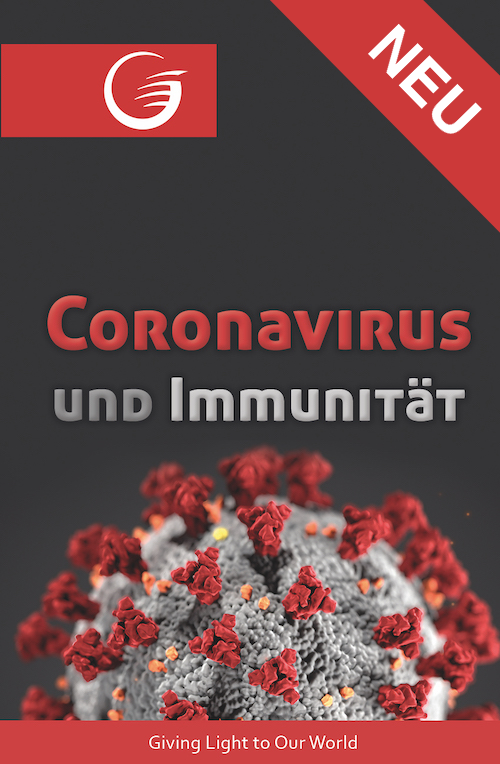
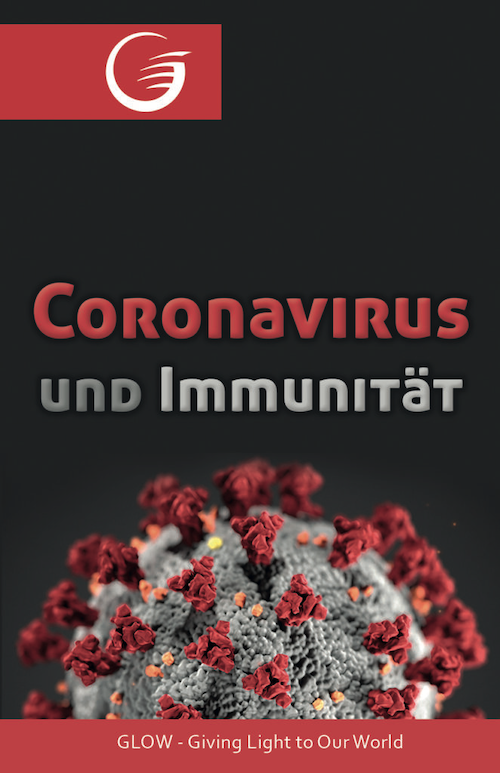
final changes for release

diff --git a/lib/pages/FlyerDetail.dart b/lib/pages/FlyerDetail.dart
@@ -48,7 +48,7 @@ class FlyerDetailPageState extends State<FlyerDetailPage> {
       systemOverlayStyle: SystemUiOverlayStyle.light,
       pinned: true,
       actions: createAppBarActions(),
-      expandedHeight: 160.0 * Utils.DYNAMIC_SCALE,
+      expandedHeight: 250,
       flexibleSpace: FlexibleSpaceBar(
         title: createAppBarTitle(),
         background: createAppBarBackground(),
@@ -101,8 +101,8 @@ class FlyerDetailPageState extends State<FlyerDetailPage> {
         title = flyer.titleShort;
     }
     return Padding(
-        padding: EdgeInsets.only(left : Utils.SPACE1_D),
-        child: Text(title, style: TextStyle(fontSize: Utils.TEXT_LARGE_D))
+        padding: EdgeInsets.only(right : Utils.SPACE3_D),
+        child: Text(title, style: TextStyle(fontSize: Utils.TEXT_MEDIUM_D))
     );
   }
 
@@ -110,7 +110,7 @@ class FlyerDetailPageState extends State<FlyerDetailPage> {
     var cover = flyer.cover;
     return ColorFiltered(
       colorFilter: ColorFilter.mode(
-        Colors.grey.withAlpha(150),
+        Colors.grey.withAlpha(100),
         BlendMode.dstATop,
       ),
       child: Image.asset(cover, fit: BoxFit.fitWidth),
@@ -150,7 +150,7 @@ class FlyerDetailPageState extends State<FlyerDetailPage> {
             child: Html(
               data: html,
               style: {
-                "body": Style(fontSize: FontSize(Utils.TEXT_MEDIUM_D)),
+                "body": Style(fontSize: FontSize(Utils.TEXT_MEDIUM)),
               },
               customImageRenders: getCustomImageRenders(),
               onLinkTap: (url, context, attributes, element) => External.launchURL(this.context, url),

diff --git a/lib/pages/FlyerList.dart b/lib/pages/FlyerList.dart
@@ -119,7 +119,7 @@ class FlyerListPageState extends State<FlyerListPage> {
   Widget createGrid(List<String> favourites) {
     var displayWidth = Utils.getDisplaySizeWidth(context);
     var spacing = Utils.SPACE1_D;
-    var flyerWidth = Utils.SPACE4_D * 2;
+    var flyerWidth = Utils.SPACE4 * 2;
     var horizontalCount = (displayWidth - spacing) ~/ (flyerWidth + spacing);
 
     flyerWidth = (displayWidth - (spacing + spacing * horizontalCount)) / horizontalCount;
@@ -257,7 +257,7 @@ class FlyerListPageState extends State<FlyerListPage> {
           padding: const EdgeInsets.only(right: 16, bottom: 16),
           child: Align(
               alignment: Alignment.centerRight,
-              child: Text("Version " + _packageInfo.version, style: TextStyle(fontSize: 11, color: CommonColors.primary)))),
+              child: Text("Version " + _packageInfo.version, style: TextStyle(fontSize: 11)))),
 
 
     ]);
